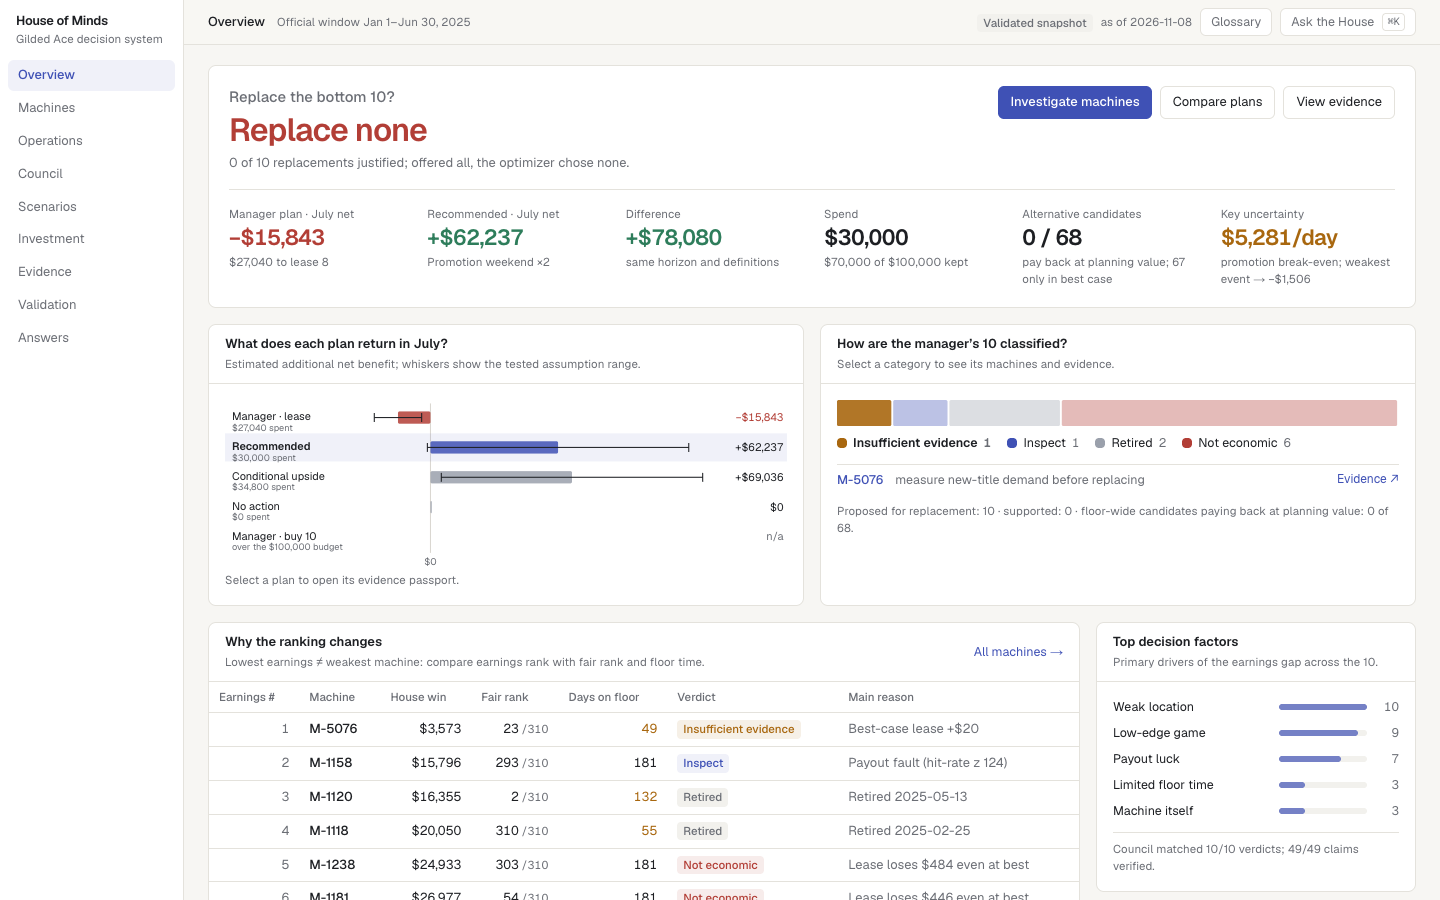
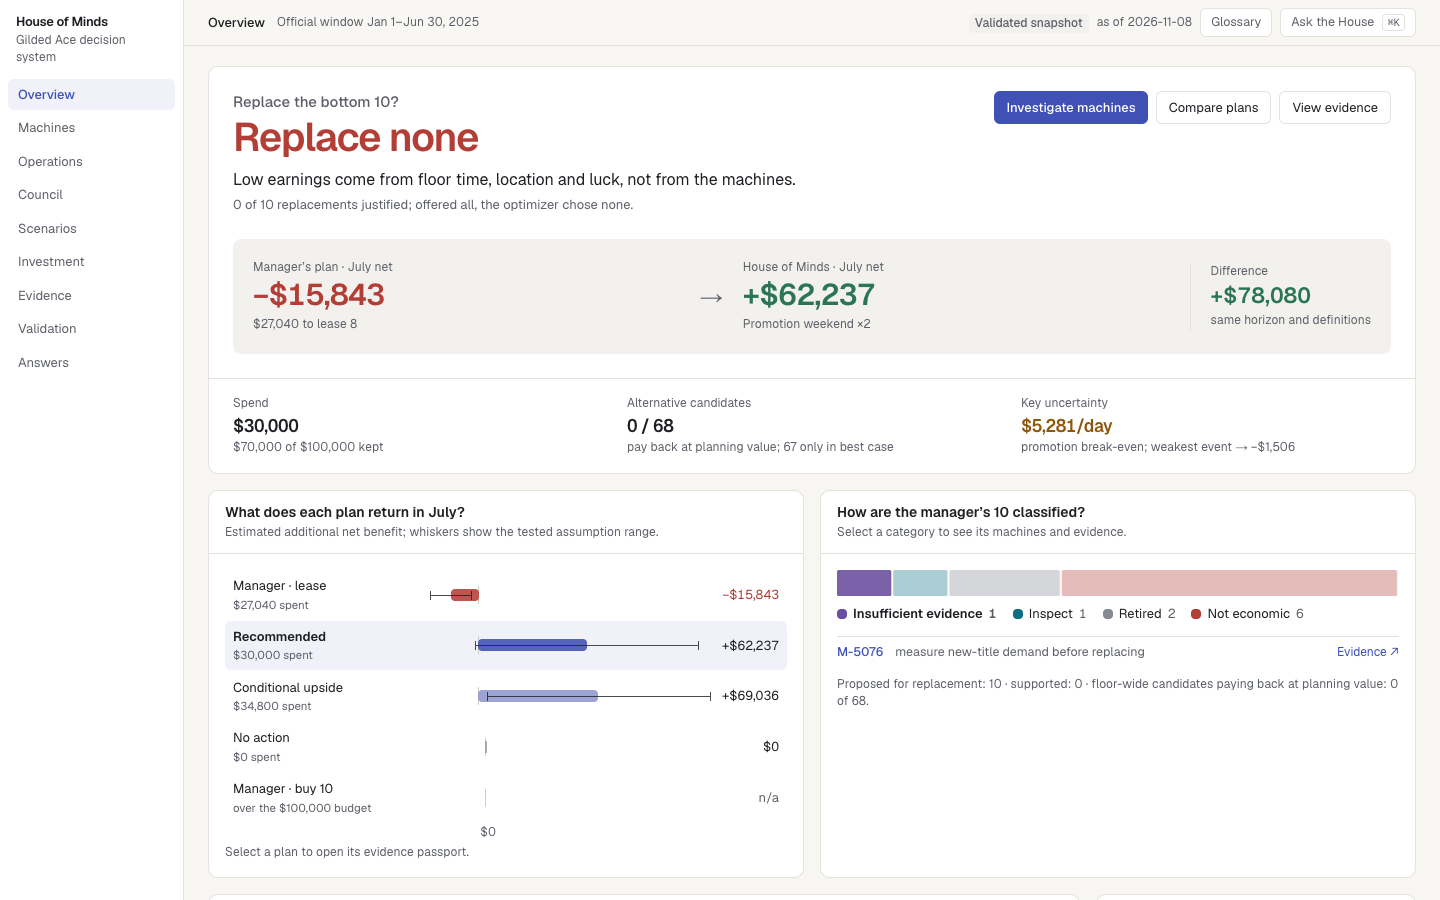
README: refresh the six screenshots from the live dashboard
Captured from https://house-of-minds.onrender.com at 1440x900 after the
design pass and passport fixes; updated the Overview and Validation
descriptions to match the current screens.

diff --git a/README.md b/README.md
@@ -44,11 +44,11 @@ $70,000 stays unspent. The conditional plan depends on effects nobody has measur
 
 | | |
 |---|---|
-| ![Overview: replacement verdict, the manager's ten machines and the July plan](docs/screenshots/01-overview.png) | ![Machine M-1158: luck, paying-spin test, comparable machines and earnings gap](docs/screenshots/02-machine-forensics.png) |
+| ![Overview: Replace none, with the manager's plan at −$15,843 against House of Minds at +$62,237 and each plan's July return](docs/screenshots/01-overview.png) | ![Machine M-1158: luck, paying-spin test, comparable machines and earnings gap](docs/screenshots/02-machine-forensics.png) |
 | **Overview.** Verdict, the ten machines, July plan | **Machines.** One machine, four statistical questions |
 | ![Council: six specialist agents and their checks on each machine](docs/screenshots/03-council.png) | ![Investment: how the $100,000 is used and what each action is expected to return](docs/screenshots/04-investment.png) |
 | **Council.** Six rule-based reviewers, every check visible | **Investment.** Budget use, action economics, risk |
-| ![Evidence passport with typeset luck-score formula and the machine's own numbers](docs/screenshots/05-evidence-passport-math.png) | ![Validation: forecast error formulas with the holdout values](docs/screenshots/06-validation.png) |
+| ![Evidence passport with typeset luck-score formula and the machine's own numbers](docs/screenshots/05-evidence-passport-math.png) | ![Validation: chronological train, selection and holdout split, error against the baseline, and actual vs forecast with event days](docs/screenshots/06-validation.png) |
 | **Evidence passport.** Formula, symbols, real values, meaning | **Validation.** Chronological holdout against a baseline |
 
 ## What makes it different
